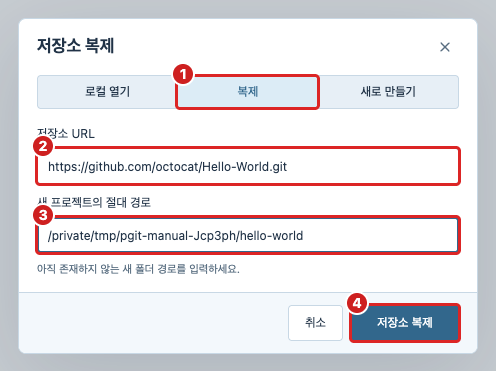
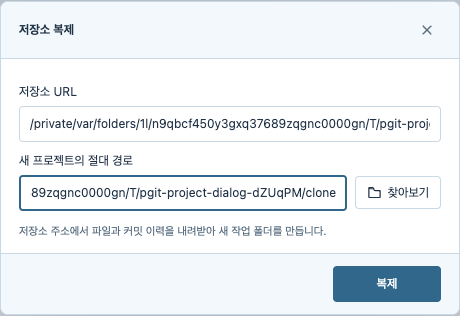
fix: separate clone and initialize dialogs without mode tabs

diff --git a/public/shell.js b/public/shell.js
@@ -58,13 +58,13 @@ function clearProjectError(){byId('projectError').textContent='';byId('projectPa
 function projectBusy(){
  const form=byId('projectForm');form.setAttribute('aria-busy',String(opening));
  for(const control of form.querySelectorAll('input,button'))control.disabled=opening;
- byId('submitProject').textContent=opening?(projectMode==='clone'?'복제 중…':projectMode==='init'?'만드는 중…':'여는 중…'):byId('projectTitle').textContent;
+ byId('submitProject').textContent=opening?(projectMode==='clone'?'복제 중…':projectMode==='init'?'만드는 중…':'여는 중…'):projectMode==='clone'?'복제':projectMode==='init'?'만들기':'프로젝트 열기';
 }
 function setProjectMode(mode){
  if(opening)return;
  if(mode!==projectMode){projectDrafts[projectMode]={path:byId('projectPath').value,url:byId('cloneUrl').value};byId('projectPath').value=projectDrafts[mode].path;byId('cloneUrl').value=projectDrafts[mode].url||''}
  projectMode=mode;clearProjectError();
- projectModes.setValue(mode);
+ byId('projectDialog').dataset.projectMode=mode;
  byId('cloneUrlField').hidden=mode!=='clone';byId('cloneUrl').required=mode==='clone';
  byId('pathLabel').textContent=mode==='open'?'프로젝트 폴더':'새 프로젝트의 절대 경로';
  byId('projectTitle').textContent=mode==='open'?'프로젝트 열기':mode==='clone'?'저장소 복제':'새 저장소 만들기';
@@ -114,7 +114,6 @@ async function openProject(path,action='open',extra={},direct=false){
 async function removeProject(p){if(p.busy)return;const index=projects.indexOf(p);try{await fetch('/api',{method:'POST',headers:{'Content-Type':'application/json','X-Pgit-Token':shellToken},body:JSON.stringify({action:'closeWorkspace',workspaceId:p.id})})}catch{}p.frame.remove();projects=projects.filter(x=>x!==p);if(activeId===p.id)selectProject(projects[Math.min(index,projects.length-1)]?.id||null);else{renderTabs();save()}byId('addProject').focus()}
 function requestClose(p){if(p.busy)return notice('진행 중인 Git 작업이 끝난 뒤 탭을 닫아 주세요.');if(p.draft.trim()){pendingClose=p;byId('closeTabDialog').showModal()}else removeProject(p)}
 window.addEventListener('message',event=>{if(event.origin!==location.origin||event.data?.source!=='pgit-pane')return;const p=projects.find(p=>p.frame.contentWindow===event.source);if(!p||p.closing)return;const m=event.data;if(m.type==='notification'&&typeof m.message==='string'){notice(m.message);return}if(m.type==='repository-missing'){closeMissingProject(p);return}if(m.type==='ready'){p.ready=true;p.frame.contentWindow.postMessage({source:'pgit-theme',theme:window.PgitSettings.theme},location.origin);p.frame.contentWindow.postMessage({source:'pgit-language',language:window.PgitI18n.language},location.origin);send(p,{type:'open',...(p.initial||{action:'open',path:p.path})})}else if(m.type==='state'){p.busy=!!m.busy;p.count=m.count||0;p.draft=typeof m.draft==='string'?m.draft:'';if(m.path){const details=recentDetails[m.path]||{};recentDetails[m.path]={...details,...(typeof m.branch==='string'?{branch:m.branch}:{}),...(!p.openedAtRecorded&&!m.busy?{openedAt:Date.now()}: {})};if(!m.busy)p.openedAtRecorded=true;missingPaths.delete(m.path);p.path=m.path;p.name=PgitPaths.basename(m.path);p.frame.title=p.name+' 작업 공간';recents=[p.path,...recents.filter(r=>r!==p.path)].slice(0,18);renderRecents()}renderTabs();save();if(m.path&&!m.busy)p.resolveOpen?.()}else if(m.type==='open-error'){p.busy=false;renderTabs();if(p.rejectOpen)p.rejectOpen(Error(m.message||'저장소를 열지 못했습니다.'));else notice(m.message||'저장소를 열지 못했습니다.')}else if(m.type==='open-worktree'&&typeof m.path==='string'&&PgitPaths.isAbsolute(m.path))openProject(m.path);else if(m.type==='settings')window.PgitSettings.open();else if(m.type==='add-project')chooseProject();else if(m.type==='shortcut'){if(m.command==='new')chooseProject();if(m.command==='close')requestClose(p);if(m.command==='next'){const index=projects.indexOf(p);selectProject(projects[(index+1)%projects.length]?.id,true)}}});
-const projectModes=PgitUI.selectionGroup(document.querySelector('.project-options'),{label:'프로젝트 추가 방식',value:projectMode,items:[...document.querySelectorAll('[data-project-mode]')].map(button=>({button,value:button.dataset.projectMode})),onChange:setProjectMode});
 byId('addProject').onclick=()=>chooseProject();byId('welcomeOpen').onclick=()=>chooseProject();byId('welcomeClone').onclick=()=>showProjectDialog('clone');PgitIcons.label(byId('homeButton'),'folder');byId('homeButton').onclick=()=>selectProject(null);
 byId('keepTab').onclick=()=>byId('closeTabDialog').close();byId('discardTab').onclick=()=>{byId('closeTabDialog').close();if(pendingClose)removeProject(pendingClose);pendingClose=null};
 byId('browseProject').onclick=async()=>{const mode=projectMode;byId('browseProject').disabled=true;try{const path=await PgitFolderPicker.choose({title:'프로젝트 폴더',defaultPath:byId('projectPath').value});if(path&&mode===projectMode&&!opening){byId('projectPath').value=mode==='clone'?PgitFolderPicker.childPath(path,PgitFolderPicker.repositoryName(byId('cloneUrl').value)||'project'):path;byId('projectPath').title=byId('projectPath').value;clearProjectError();byId('projectPath').focus()}}catch(e){byId('projectError').textContent=e.message}finally{byId('browseProject').disabled=opening}};

diff --git a/public/shell.html b/public/shell.html
@@ -7,6 +7,6 @@
 <div class="welcome-actions home-start-actions"><button id="welcomeOpen" aria-label="프로젝트 열기"><span class="start-icon" data-home-icon="folder"></span><span><strong>프로젝트 열기</strong><small>내 컴퓨터의 Git 저장소</small></span><span class="start-arrow" aria-hidden="true">↗</span></button><button id="welcomeClone" aria-label="저장소 복제"><span class="start-icon" data-home-icon="fetch"></span><span><strong>저장소 복제</strong><small>원격 저장소를 내 컴퓨터로</small></span><span class="start-arrow" aria-hidden="true">↗</span></button><button id="welcomeInit" aria-label="새 저장소 만들기"><span class="start-icon" data-home-icon="plus"></span><span><strong>새 저장소 만들기</strong><small>폴더에서 Git 기록 시작</small></span><span class="start-arrow" aria-hidden="true">↗</span></button></div>
 <div class="recent-section"><div class="project-home-toolbar"><div class="section-heading"><h2>최근 프로젝트</h2><span id="recentCount"></span></div><input id="projectSearch" type="search" aria-label="프로젝트 검색" placeholder="이름 또는 경로로 검색" autocomplete="off"></div><div class="recent-columns" aria-hidden="true"><span>저장소</span><span>최근 확인 브랜치</span><span>마지막으로 연 시간</span><span></span></div><div id="recentProjects" class="recent-list"></div></div>
 <footer class="welcome-footer"><span>목록에서 제거해도 저장소와 파일은 유지됩니다.</span><span>⌘T 새 프로젝트</span></footer></section></main>
-<dialog id="projectDialog" aria-labelledby="projectTitle"><form id="projectForm" novalidate><div class="dialog-heading"><div><span class="eyebrow">NEW PROJECT</span><h2 id="projectTitle">프로젝트 열기</h2></div><button type="button" id="closeProjectDialog" class="icon-button" aria-label="프로젝트 창 닫기">×</button></div><div class="project-fields"><div class="project-options reference-modes" role="group" aria-label="프로젝트 추가 방식"><button type="button" data-project-mode="open" aria-pressed="true">로컬 열기</button><button type="button" data-project-mode="clone" aria-pressed="false">복제</button><button type="button" data-project-mode="init" aria-pressed="false">새로 만들기</button></div><div id="cloneUrlField" hidden><label for="cloneUrl">저장소 URL</label><input id="cloneUrl" aria-describedby="projectError" placeholder="https://github.com/team/project.git" autocomplete="off"></div><label for="projectPath" id="pathLabel">프로젝트 폴더</label><div class="path-field"><input id="projectPath" aria-describedby="projectHelp projectError" required placeholder="/Users/you/Projects/project" autocomplete="off"><button type="button" id="browseProject">찾아보기</button></div><p id="projectHelp">기존 Git 저장소를 새 탭으로 엽니다.</p><p id="projectError" role="alert"></p></div><div class="dialog-actions"><button type="submit" id="submitProject" class="primary">프로젝트 열기</button></div></form></dialog>
+<dialog id="projectDialog" aria-labelledby="projectTitle"><form id="projectForm" novalidate><div class="dialog-heading"><div><span class="eyebrow">NEW PROJECT</span><h2 id="projectTitle">프로젝트 열기</h2></div><button type="button" id="closeProjectDialog" class="icon-button" aria-label="프로젝트 창 닫기">×</button></div><div class="project-fields"><div id="cloneUrlField" hidden><label for="cloneUrl">저장소 URL</label><input id="cloneUrl" aria-describedby="projectError" placeholder="https://github.com/team/project.git" autocomplete="off"></div><label for="projectPath" id="pathLabel">프로젝트 폴더</label><div class="path-field"><input id="projectPath" aria-describedby="projectHelp projectError" required placeholder="/Users/you/Projects/project" autocomplete="off"><button type="button" id="browseProject">찾아보기</button></div><p id="projectHelp">기존 Git 저장소를 새 탭으로 엽니다.</p><p id="projectError" role="alert"></p></div><div class="dialog-actions"><button type="submit" id="submitProject" class="primary">프로젝트 열기</button></div></form></dialog>
 <dialog id="closeTabDialog" aria-labelledby="closeTabTitle"><div class="dialog-heading"><h2 id="closeTabTitle">커밋 초안을 보관할까요?</h2></div><p>탭을 닫으면 이 탭의 커밋 메시지 초안이 사라집니다. 파일 변경과 스테이징 상태는 저장소에 남습니다.</p><div class="dialog-actions"><button id="keepTab">계속 작성</button><button id="discardTab">초안 버리고 탭 닫기</button></div></dialog>
 <div id="shellNotice" role="status" hidden></div><script src="/path-utils.js"></script><script>const shellToken='__PGIT_TOKEN__';</script><script src="/command-help.js"></script><script src="/folder-picker.js"></script><script src="/icons.js"></script><script src="/ui-components.js"></script><script src="/locales.js"></script><script src="/i18n.js"></script><script src="/theme-catalog.js"></script><script src="/settings.js"></script><script src="/shell.js"></script><script src="/guide.js"></script><script src="/tooltips.js"></script></body></html>
